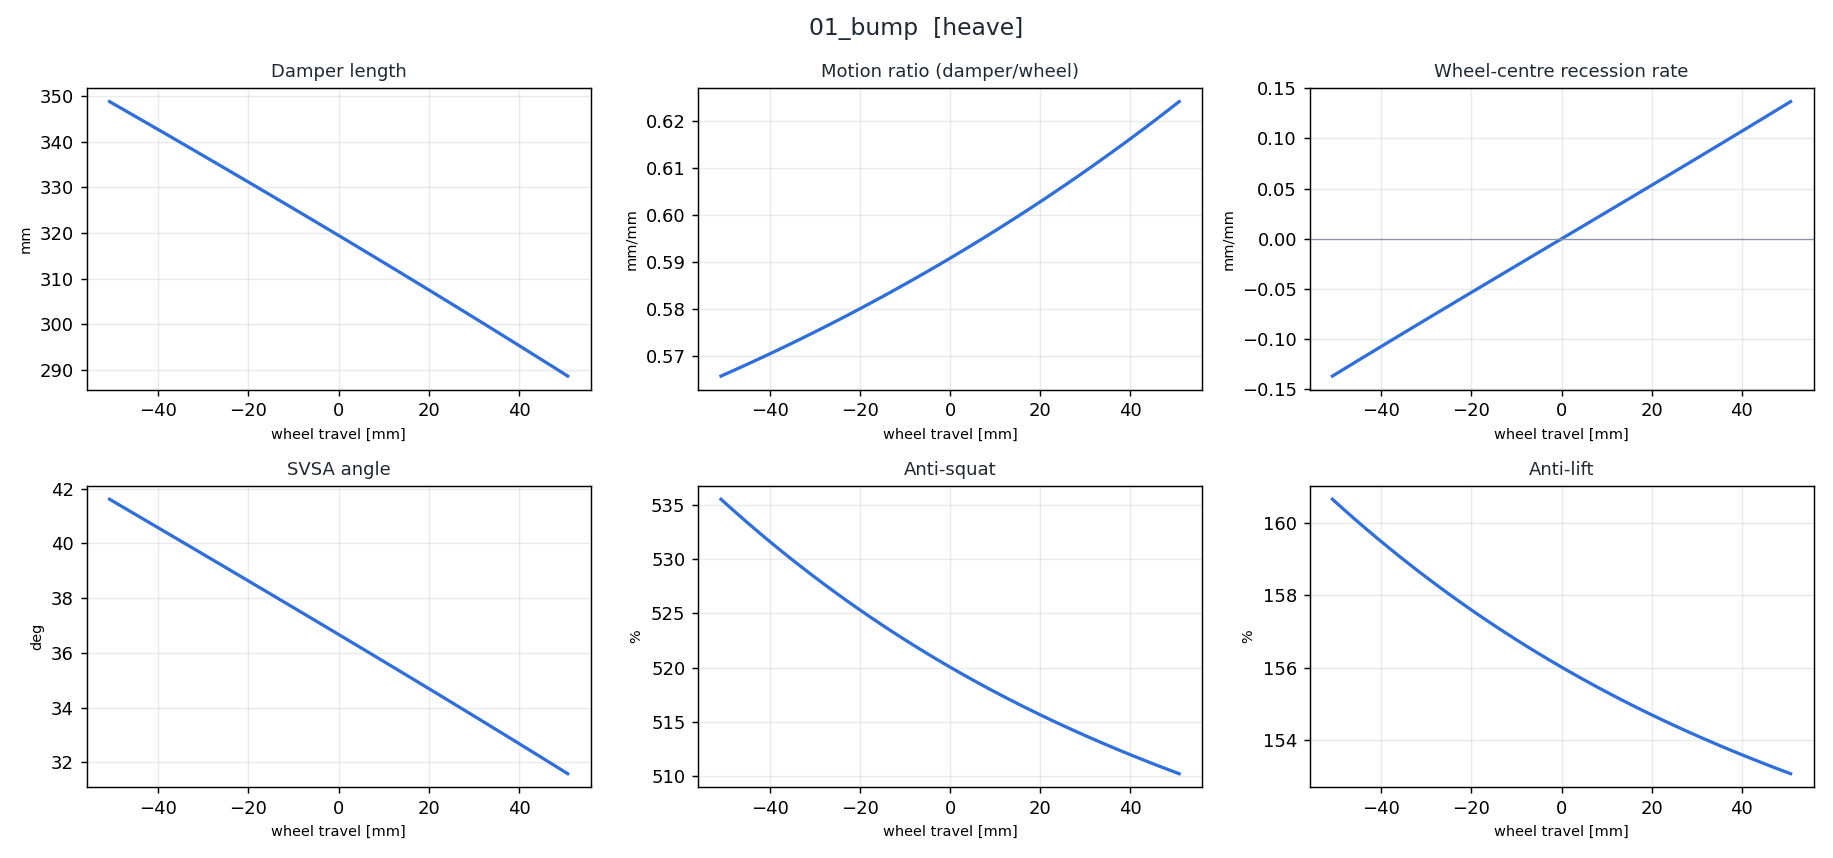
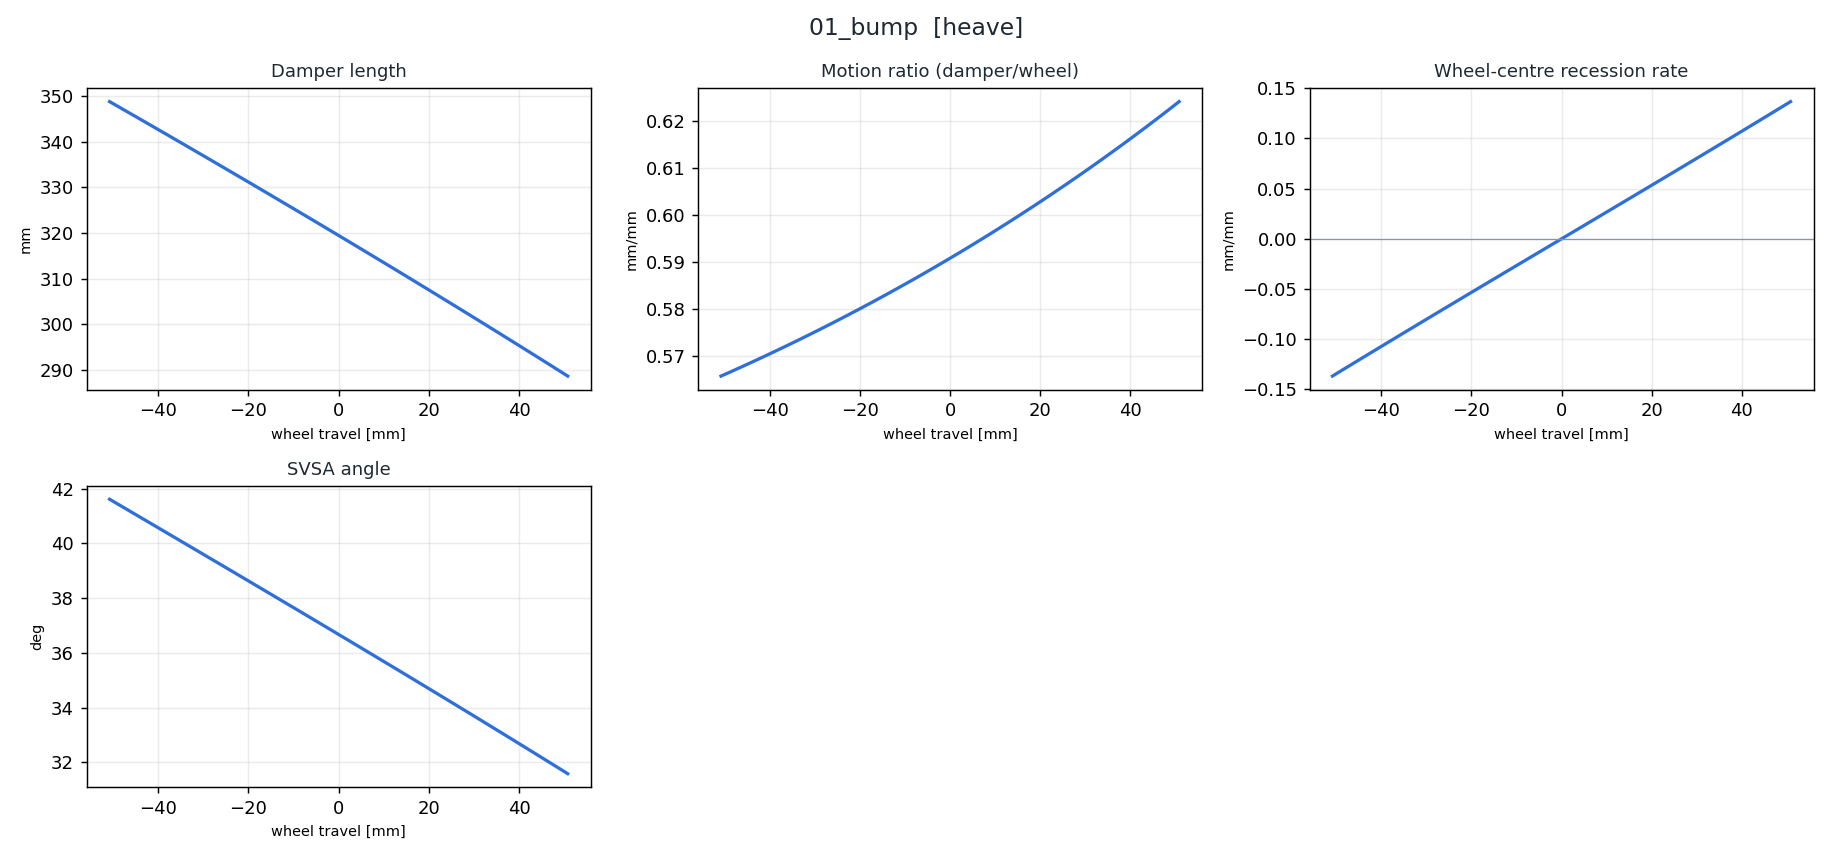
Regenerated Rear outputs with Bound Anti features

diff --git a/models/aurora/report/rear/report.md b/models/aurora/report/rear/report.md
@@ -3,7 +3,7 @@
 ## Provenance
 
 - geometry: `C:\Users\rapha\Documents\BSSR\Suspension_App\BSSR-suspension\models\aurora\rear.yaml`
-- geometry SHA-256: `efb23143cbf52705...`
+- geometry SHA-256: `97a7a7492884e5b9...`
 - format version: 3
 - run configuration: `C:\Users\rapha\Documents\BSSR\Suspension_App\BSSR-suspension\models\aurora\report\rear\_resolved_run.json`
 
@@ -22,6 +22,7 @@ Conventions and formulas are documented in `CHARACTERISTICS.md`. What is specifi
 - **The wheel is on the vehicle centreline, so it has no inboard or outboard.** Camber, toe, caster, KPI, scrub radius, mechanical trail, half track and the front-view swing arm all measure against a lateral datum that a centreline wheel does not have, so the solver emits none of them: those columns are absent from the CSV rather than blank or signed by an arbitrary convention. Naming them in run.yaml will not bring them back.
 - **The arm pivot is transverse, so the carrier does not tilt.** Both arm mounts share an X, the wheel swings in a plane, and the spin axis keeps its design orientation through the whole travel. Camber and toe change are what arm-axis obliquity in plan buys you, and this geometry deliberately has none.
 - **The side-view family is the reason this model earns its own report.** A trailing arm's SVIC is its pivot axis, so SVSA, its angle and the anti percentages are all well defined here, unlike on the front. Anti-squat additionally needs the driven axle declared, and anti-lift needs `front_brake_bias`.
+- **The anti percentages are reported at the design pose only.** Each is `(z_P/x_P) / (h/L)`, where `z_P` and `x_P` place the side-view instant centre relative to the tyre contact patch. The first ratio is pure suspension geometry and this model gets it right everywhere. The second is not: `h` is the CG height above the road, and a single-corner model puts the road plane through this wheel's own contact patch, so `h` falls by the full wheel travel as though the whole car were sinking on one corner. `L` meanwhile is held at the authored wheelbase. Both terms are exact at design and progressively wrong away from it, so min, max and range are left blank rather than printed as an envelope. A real anti-geometry envelope needs a whole-vehicle pitch and heave case, not a single-corner sweep.
 - **Anti-squat depends on where the drive torque is reacted**, which the geometry declares as `drive_torque_reaction`. A hub motor (`unsprung`) reacts it through the arm, so the force line runs from the contact patch; an inboard motor through halfshafts (`sprung`) leaves only the longitudinal force at the wheel centre. The two differ by a tyre radius of leverage and can be hundreds of percent apart on the same geometry. The column is blank if the setting is absent, rather than guessing one.
 - **The SVIC and SVSA length are tabulated but not plotted.** On a trailing arm the instant centre is the fixed pivot axis, so both plot as flat lines. SVSA angle carries the same information in a bounded form and is plotted instead.
 
@@ -37,8 +38,8 @@ Conventions and formulas are documented in `CHARACTERISTICS.md`. What is specifi
 | SVIC height (z) | mm | 278.500 | 278.500 | 278.500 | 0.000 |
 | SVSA length | mm | 375.000 | 371.543 | 375.000 | 3.457 |
 | SVSA angle | deg | 36.6689 | 31.5804 | 41.6111 | 10.0307 |
-| Anti-squat | % | 520.04 | 510.19 | 535.54 | 25.35 |
-| Anti-lift | % | 156.01 | 153.06 | 160.66 | 7.61 |
+| Anti-squat | % | 520.04 | - | - | - |
+| Anti-lift | % | 156.01 | - | - | - |
 
 Plots: `plots/01_bump.png`
 
@@ -51,19 +52,6 @@ Plots: `plots/01_bump.png`
 | Motion ratio (damper/wheel) | mm/mm | 0.5907 | 0.5658 | 0.6221 | 0.0564 |
 
 Plots: `plots/02_damper_stroke.png`
-
-## Bearing misalignment
-
-Required angle is the worst value anywhere in this sweep set, not per sweep, and only over the sweeps that actually ran. Install offset is the angle between the housing and bore directions at the neutral pose: non-zero means the bearing is fitted deliberately off centre and starts already eating part of its cone. Best available is what the joint would need if its bore axis were chosen to minimise the worst case.
-
-**Size against `required (locked)` where it is populated.** Those housings ride a two-point member whose roll about its own axis no kinematic model can determine. The plain `required` column is a lower bound that assumes the member turns freely to the best position at every instant; the locked column assumes it never turns, so one clocking chosen at assembly serves the whole sweep.
-
-| joint | part | required (deg) | at | required (locked) (deg) | locked clocking (deg) | install offset (deg) | best available (deg) | clocking (deg) |
-| --- | --- | --- | --- | --- | --- | --- | --- | --- |
-| Arm Front Pivot | spherical | 0.00 | `01_bump` step 0 | - | - | 0.00 | 0.00 | - |
-| Arm Rear Pivot | spherical | 0.00 | `01_bump` step 0 | - | - | 0.00 | 0.00 | - |
-| Damper Upper Mount | spherical | 0.00 | `01_bump` step 0 | 0.00 | 180.0 | 0.00 | 0.00 | - |
-| Damper Lower Mount | spherical | 0.00 | `02_damper_stroke` step 40 | 0.00 | 180.0 | 0.00 | 0.00 | - |
 
 ## Plots
 
